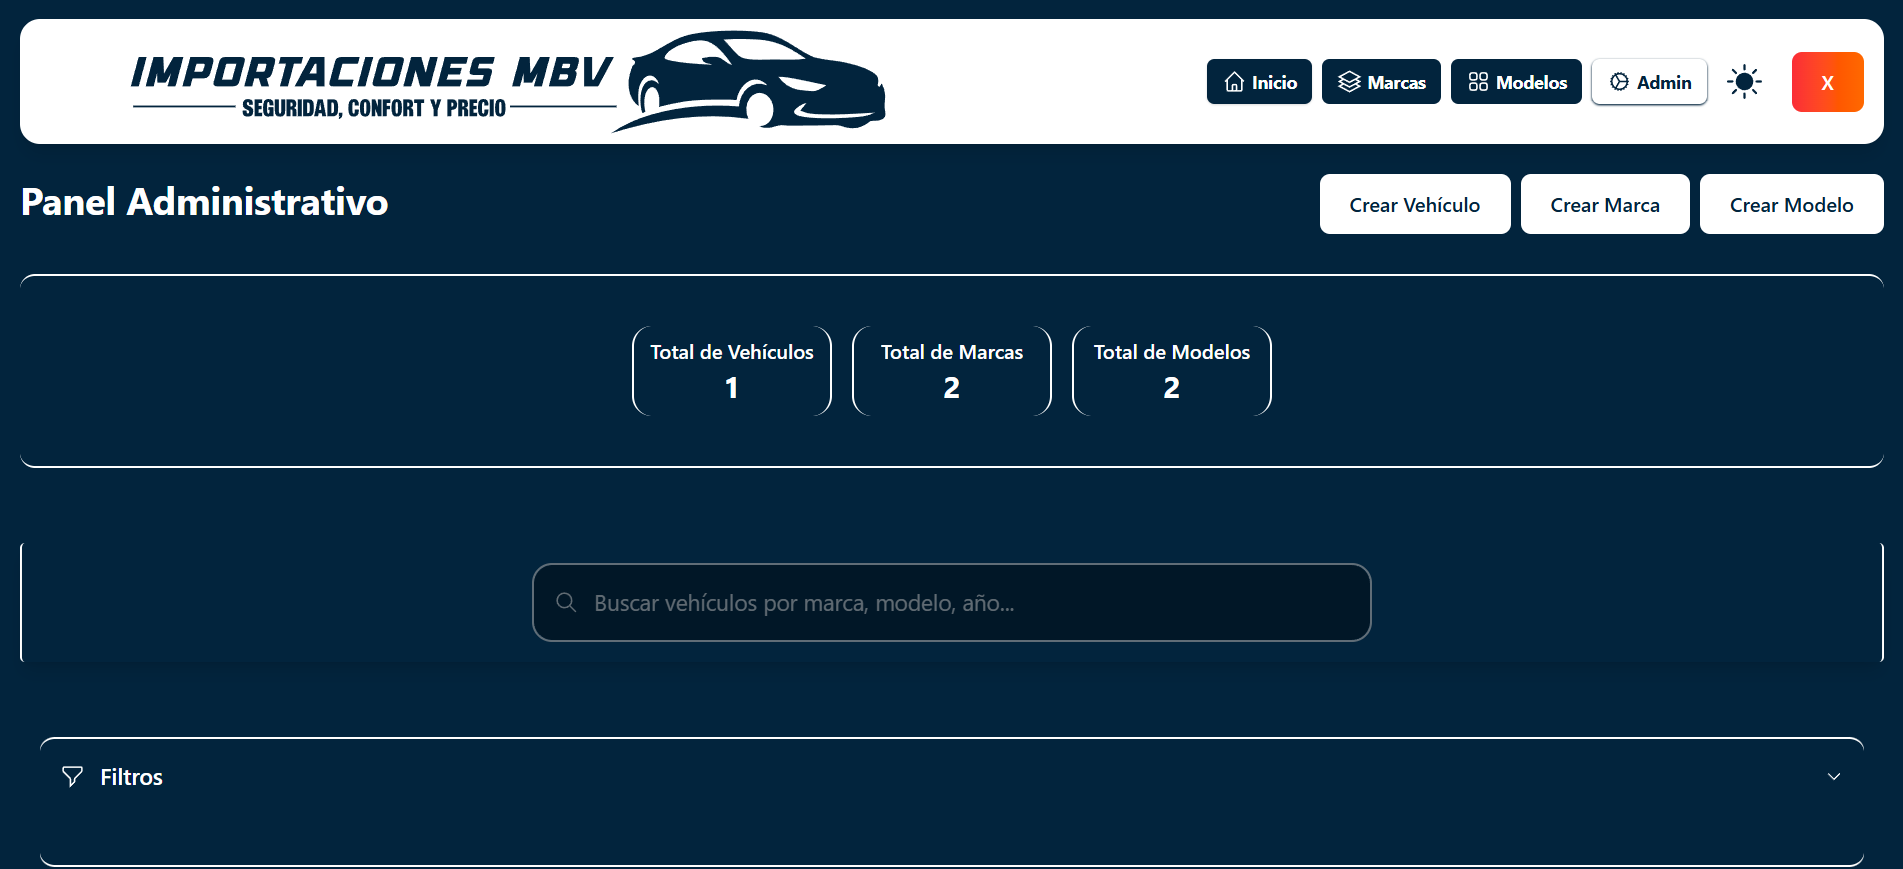
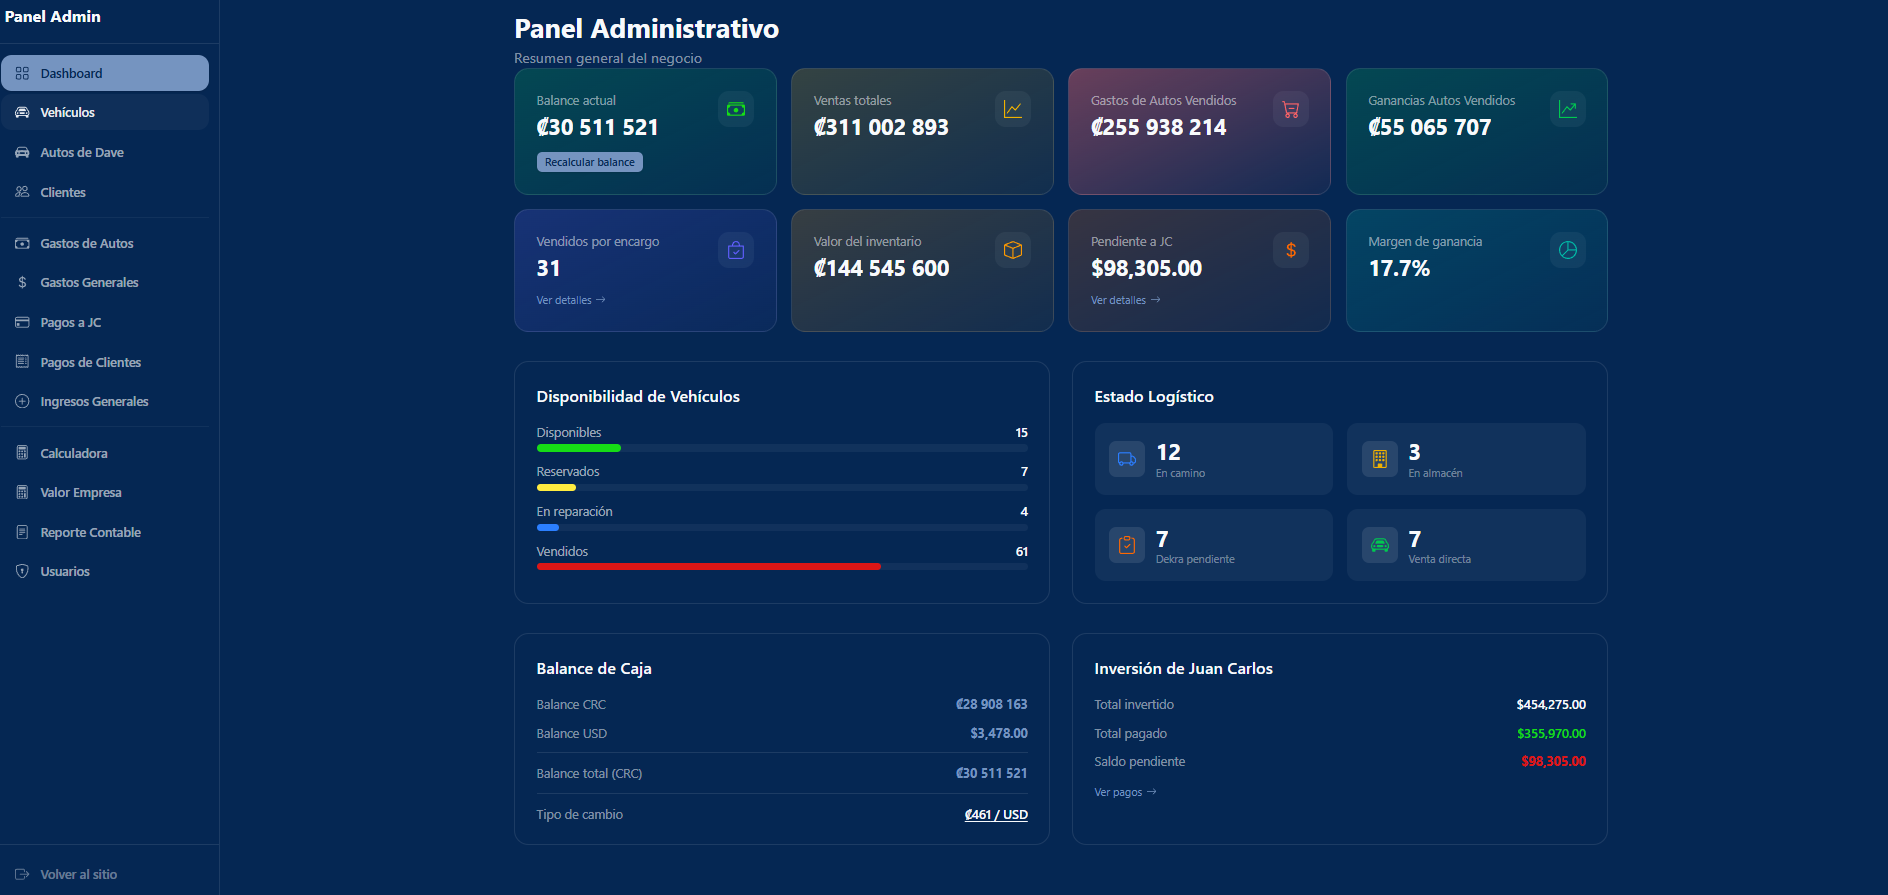
Changes in projects

diff --git a/src/data/projectsData.js b/src/data/projectsData.js
@@ -1,8 +1,6 @@
 import hero_catalog from "/assets/images/catalog/hero.png";
 import admin_catalog from "/assets/images/catalog/admin.png";
 import hero_library from "/assets/images/library/hero_library.png";
-import hero_catalog_white from "/assets/images/catalog/hero_white.png";
-import admin_catalog_white from "/assets/images/catalog/admin_white.png";
 import hero_calculator from "/assets/images/calculator/hero_calculator.png";
 
 import { IoCarSportSharp, IoBook, IoCalculator } from "react-icons/io5";
@@ -38,12 +36,7 @@ export const projectsData = [
 			},
 		},
 		link: "https://importacionesmbv.com/",
-		images: [
-			hero_catalog,
-			admin_catalog,
-			hero_catalog_white,
-			admin_catalog_white,
-		],
+		images: [hero_catalog, admin_catalog],
 		icon: IoCarSportSharp,
 		techs: [
 			SiJavascript,
